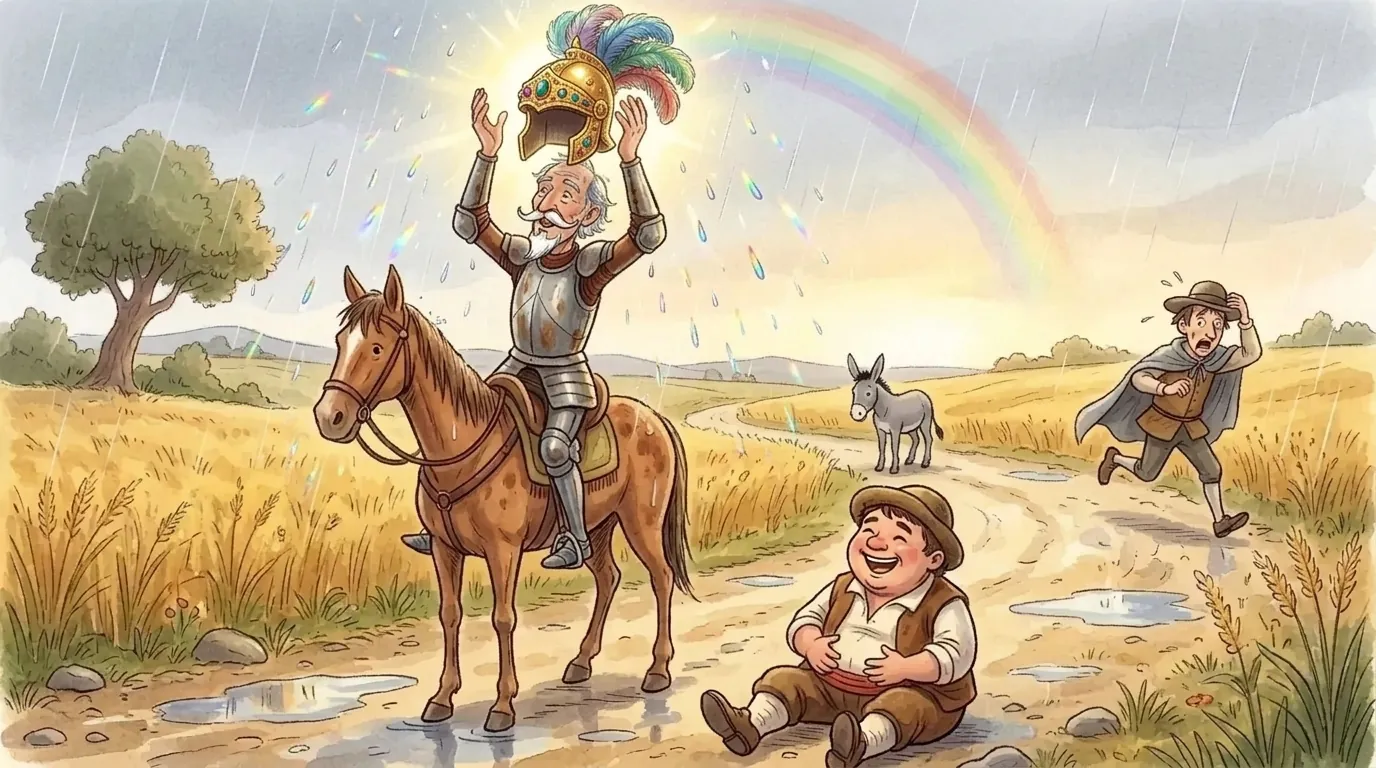
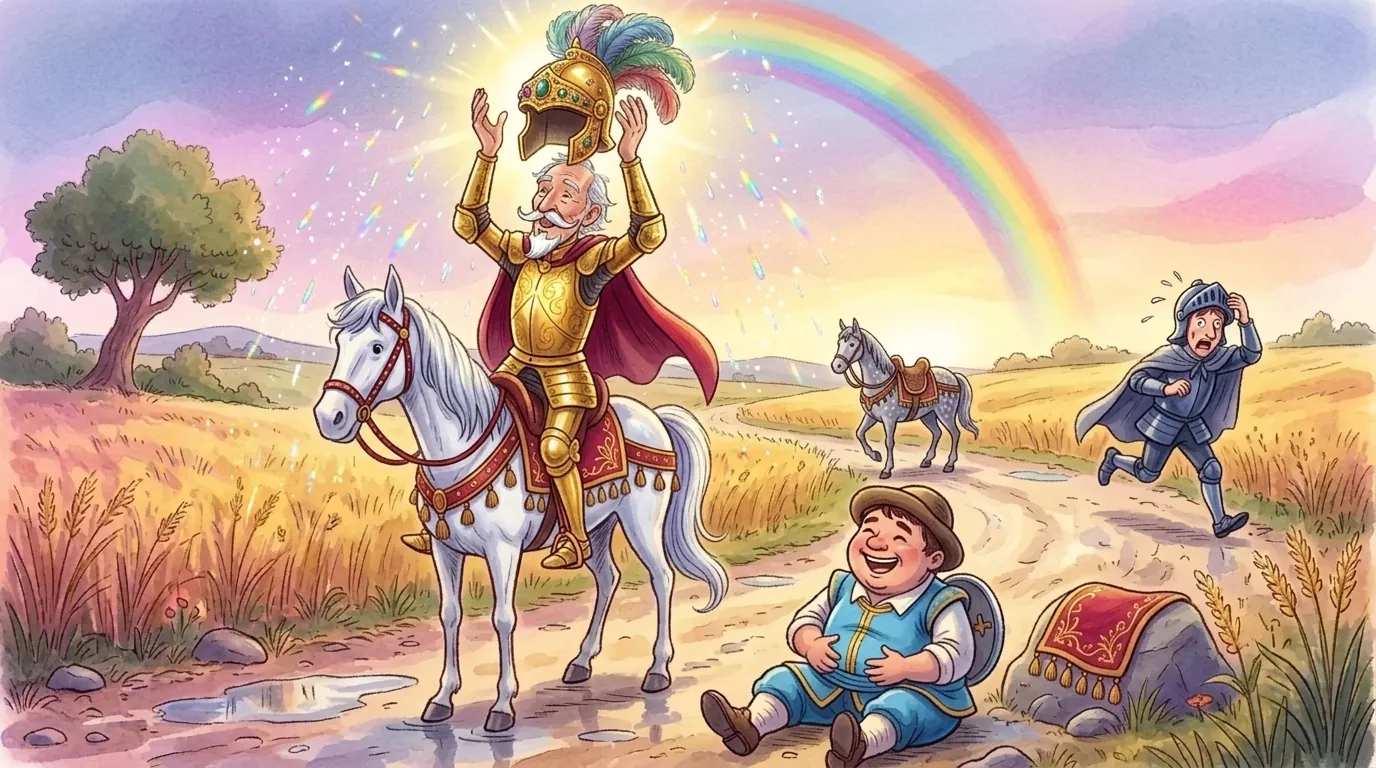
art(dom-quixote): Imaginações da Parte 2 refeitas para transformar de verdade
O humano reprovou as Imaginações da Parte 2: mantinham a Realidade (armadura
enferrujada, bacia, Rocinante marrom) e trocavam só um detalhe. As 9 (p0–p8)
foram refeitas pela API com uma "bíblia da Imaginação" no prompt: Dom Quixote
vira o cavaleiro dourado, Rocinante o corcel branco, Sancho o escudeiro, e cada
cena ganha as transformações do texto de Cervantes. Referências: a -real da
página, a p7-imag da Parte 1, fichas do banco e a Imaginação anterior.

- tools/gerar-imagens.mjs: pedidos com `imaginacao: true` recebem a bíblia;
- docs/ARTE-PELA-API.md §4.1: a lição e o método;
- teto da API agora R$ 30/mês; gasto desta rodada US$ 0,42 (Parte 2: US$ 0,99).

Claude-Session: https://claude.ai/code/session_01DbhyZ1tVmtqwcfT63TCuaq

diff --git a/sw.js b/sw.js
@@ -6,7 +6,7 @@
    - Narração gravada (*.mp3 e as marcas *.json em audio/): rede primeiro, para frases regravadas chegarem ao tablet;
      cada arquivo fica num cache próprio (que sobrevive às novas versões) e toca offline depois.
    - Demais arquivos: cache primeiro (abre instantâneo no tablet). */
-const CACHE = 'classicos-vivos-f6e1e854b7a1';
+const CACHE = 'classicos-vivos-c0a98d5c32f1';
 const CACHE_AUDIO = 'cv-narracao';
 const FILES = [
     "./assets/css/fonts.css",

diff --git a/docs/ARTE-PELA-API.md b/docs/ARTE-PELA-API.md
@@ -1,6 +1,6 @@
 # 🖼 Arte pela API do Gemini (Nano Banana 2, modo Batch)
 
-Caminho de reserva para as ilustrações quando a cota do Antigravity acaba. **Só com autorização do humano no prompt inicial da sessão** (AGENTS.md §2.7) e só para o que ele autorizou. Primeiro uso: 2026-10-24, Parte 2, páginas 4 a 8 (10 cenas + 5 camadas), **US$ 0,57** no total.
+Caminho de reserva para as ilustrações quando a cota do Antigravity acaba. **Só com autorização do humano no prompt inicial da sessão** (AGENTS.md §2.7) e só para o que ele autorizou. Primeiro uso: 2026-10-24, Parte 2, páginas 4 a 8 (10 cenas + 5 camadas), **US$ 0,57**. Na mesma tarde, a pedido do humano, as **9 Imaginações da Parte 2 foram refeitas** com a bíblia da Imaginação (§4.1): **US$ 0,42**. Total da Parte 2: **US$ 0,99**.
 
 ## 1. Modelo e preço (página de preços do Gemini, 2026-10-24)
 | Modelo | ID | Imagem 1K Standard | **Batch** | 512 px Batch |
@@ -33,6 +33,20 @@ npm run build:images && npm run build
 5. Posicionar as camadas no `parte-N.html` **pela arte**, e não pelo plano: o modelo segue a composição pedida só aproximadamente (a poeira, o balão e as cabras mudaram de lugar em relação ao TODO).
 
 ## 4. Lições aprendidas
+
+### 4.1 A Lente da Imaginação precisa TRANSFORMAR (a lição mais importante)
+- ❌ **Errado** (primeira rodada): "Edit the reference image keeping everything exactly, only change X". O modelo obedece demais: Dom Quixote continua de armadura enferrujada e bacia de latão, Rocinante continua marrom, e só um detalhe muda. O humano reprovou: "mantiveram os elementos da realidade, sem verdadeiramente transformar a cena e os personagens".
+- ✅ **Certo**: a lista tem uma **bíblia da Imaginação** (`imaginacao` em `tools/arte/<livro>-parte-N.mjs`), que entra em todo pedido com `imaginacao: true`:
+  1. "Da Realidade, mantenha **só** a câmera, o layout e o lugar, o tamanho e a pose de cada personagem. **Transforme todo o resto.**"
+  2. As transformações obrigatórias dos personagens fixos: Dom Quixote → **cavaleiro dourado** (armadura de ouro com filigrana, elmo de viseira aberta e pluma vermelha, capa carmim, lança de ouro com flâmula, o mesmo rosto); Rocinante → **corcel branco** (crina prateada, manta carmim e ouro); Sancho → **escudeiro orgulhoso**, reconhecível (túnica azul-celeste com ouro, escudinho nas costas), e o burrico com manta de festa.
+  3. O que **não pode sobrar** ("NO rusty armour, NO brass basin, NO skinny brown horse").
+  4. O mundo vira conto de fadas (ouro, violeta, rosa, turquesa, brilhos), e cada página diz **as suas** transformações, tiradas do texto de Cervantes (o barbeiro → cavaleiro em fuga, e o burrinho dele → corcel malhado; as cordas de Rocinante → fitas encantadas; os cabreiros → pastores da Idade de Ouro).
+- **Referências da Imaginação**, nesta ordem: (1) a `-real` da página (layout); (2) uma Imaginação aprovada com o cavaleiro dourado e Sancho (`imagens/p7-imag.webp`, da Parte 1); (3) uma ficha do banco (`biblioteca/referencias/personagens/don-quixote-cavaleiro-dourado.png`, `dom-quixote-heroi-dourado.png`, `rocinante-corcel-branco.png`); (4) a Imaginação anterior da página, quando tinha elementos bons (gigante, mago, sábio, exércitos), citada no prompt como "like the last reference image". Não use `gigantes-moinhos.png` (estilo cartoon vetado, AGENTS §4.4).
+- **Escala e lugar**: o corcel branco com manta tende a sair **maior** e a ir para o centro. Quando o lugar importa (troca de lente sem "pulo"), diga o tamanho em relação à Realidade ("no taller than half the picture height, exactly the size of the brown horse in the reality version, standing still") e troque a ficha do cavaleiro grande por uma cena com cavaleiros pequenos.
+- **Objetos nas mãos**: "gripping its rim firmly with BOTH hands (his hands touch the helmet; it does not float)". Sem isso, o objeto mágico flutua.
+- **Animais a mais**: o modelo acrescenta o burrico de Sancho em toda cena. Quando ele não está na página, diga "it is the ONLY animal on the road".
+
+### 4.2 Camadas e demais lições
 - **Camadas sobre magenta puro (#FF00FF), nunca sobre branco.** O modelo não entrega transparência. Recortar fundo branco come as partes claras (o avental da pousada) e deixa "chão" claro (P-003/P-005). O magenta saiu uniforme e o `recortar-camada.py` tira o fundo, desmistura as bordas (sem halo rosa) e corta justo.
 - **Poeira, fumaça e fiapos**: o modelo pinta fiapos rosados misturados ao magenta. Para desenhos sem rosa nenhum (poeira, madeira), use `--sem-rosa`.
 - **Diga o que NÃO pintar quando há camada por cima**: "Do NOT paint the hammers… the space stays clear" funcionou (galpão vazio + camada de martelos). Áreas livres pedidas em % ("the upper right part… must be EMPTY") também.
@@ -42,7 +56,7 @@ npm run build:images && npm run build
 - **Sem texto legível**: "only golden swirls, absolutely no letters or words" funcionou no livro do sábio.
 
 ## 5. Estimativa para as próximas partes
-Custo médio real: **~US$ 0,038 por imagem aceita** (já com as refeitas).
+Custo médio real: **~US$ 0,038 por imagem aceita** (já com as refeitas). Com a bíblia da Imaginação desde o início, a Imaginação sai certa na primeira ou na segunda tentativa.
 | Parte | Cenas | Camadas | Estimativa |
 | :--- | :--- | :--- | :--- |
 | 3 | 17 | 5 | ~US$ 0,85 |

diff --git a/AGENTS.md b/AGENTS.md
@@ -152,17 +152,17 @@ window.LIVRO = {
 - **Reserva em cascata, nunca silêncio**: frase sem gravação → voz do aparelho; voz "online" sem internet → melhor voz offline do aparelho (até recarregar a página). Na primeira visita, se houver narração gravada pronta para a parte, ela vira a voz padrão.
 - **Offline**: o service worker **não** pré-baixa os áudios (são grandes). Os MP3 seguem **rede primeiro** (uma frase regravada com o mesmo nome chega ao tablet) e ficam num cache próprio (`cv-narracao`, que sobrevive às novas versões), para tocar offline depois da primeira vez. O SW pede o arquivo inteiro (200) em vez do trecho (Range/206) que o `<audio>` pede, senão nada seria guardado. O `vozes.js` também é buscado na rede primeiro.
 - **Página inteira** (o padrão): `<voz>/parte-N/paginas.json` lista as páginas gravadas num áudio só (`pN.mp3`) e o tempo de cada frase (`ini`/`fim`). "Ouvir Página" toca esse MP3 e destaca a frase pelo `currentTime` (`lerPaginaInteira`). As páginas fora dele seguem frase a frase. O áudio que vem do service worker **não aceita salto no tempo** (`seekable` vazio); para tocar uma frase solta de uma página inteira, ver BACKLOG M-4.
-- **Vozes dos personagens**: o roteiro (`narracao/parte-N/roteiro.json`) diz quem fala cada trecho, e o elenco fica em `ELENCO` (`tools/gravar-narracao.mjs`). **Economia** (limite de R$ 10/mês do humano): a API paga só produz vozes; a conferência é local (`tools/transcrever.py`, Whisper).
+- **Vozes dos personagens**: o roteiro (`narracao/parte-N/roteiro.json`) diz quem fala cada trecho, e o elenco fica em `ELENCO` (`tools/gravar-narracao.mjs`). **Economia** (limite de R$ 30/mês do humano): a API paga só produz vozes; a conferência é local (`tools/transcrever.py`, Whisper).
 - **Prévia**: uma voz com a parte em `previa` (no `vozes.js`) aparece no painel com só algumas frases gravadas (as demais usam a voz do aparelho) e nunca vira a voz padrão. Serve para o humano ouvir no livro antes de a produção seguir.
 - Produção das gravações: `docs/TODO-NARRACAO.md` e `npm run gravar:narracao` (Claude, via API do Gemini `gemini-3.8-flash-tts` com a chave como segredo de rede do ambiente, injetada pelo proxy; ela **nunca** é impressa nem versionada). **Regras de uso da API: §2.7.** Lista do que gravar: `docs/narracao/frases-<livro>-parte-N.json`.
 
 ### 2.7 Uso da API paga do Gemini (regra do humano, 2026-10-24)
-A API é paga pelo humano, num projeto de hobby com **limite de R$ 10/mês**, e a verba precisa render para **muitos livros e, quem sabe, novas vozes**. Por isso:
+A API é paga pelo humano, num projeto de hobby com **limite de R$ 30/mês** (era R$ 10 até 2026-10-24), e a verba precisa render para **muitos livros e, quem sabe, novas vozes**. Por isso:
 1. **Só para produzir as vozes da leitura** (narração e palavras-chave). **Nada mais**: nem testes de acesso, nem transcrição, nem avaliação de áudio, nem texto, nem imagens, nem listar ou criar vozes "para ver".
 2. **Só com autorização explícita do humano no prompt inicial da sessão.** Sem ela, a API não é chamada (nem para "um teste rápido"). O `tools/gravar-narracao.mjs` recusa sem `--autorizado`; passe a opção só quando o humano tiver autorizado aquela produção.
 3. **Sempre do jeito mais econômico**: planeje com `--seco` (de graça), grave a página inteira num pedido só, não regrave o que já está bom (o `hash` evita), no máximo 2 tentativas, a conferência é **local e gratuita** (Whisper, `tools/transcrever.py`), e prefira o nível mais barato aprovado pelo humano (opções e preços em `docs/TODO-NARRACAO.md` §8.4).
 4. **Registre o gasto**: cada rodada vai para `docs/narracao/gastos.csv` (o script faz isso). Ao fim do trabalho, diga ao humano quanto foi gasto.
-5. **As imagens, por padrão, não usam a API paga** (decisão do humano, 2026-10-24): continuam com o agente Gemini no **Google Antigravity**, na cota do plano Pro do humano (com as pausas por cota). **Exceção pontual**: quando o humano autoriza no prompt inicial (ex.: 2026-10-24, as páginas 4–8 da Parte 2, com a cota do Antigravity esgotada), o Claude gera pela API com `npm run gerar:imagens` (Nano Banana 2, **Batch**, ~US$ 0,038 por imagem aceita), **só** o que foi autorizado. Método, preços e lições: `docs/ARTE-PELA-API.md`.
+5. **As imagens, por padrão, não usam a API paga** (decisão do humano, 2026-10-24): continuam com o agente Gemini no **Google Antigravity**, na cota do plano Pro do humano (com as pausas por cota). **Exceção pontual**: quando o humano autoriza no prompt inicial (ex.: 2026-10-24, as páginas 4–8 da Parte 2, com a cota do Antigravity esgotada), o Claude gera pela API com `npm run gerar:imagens` (Nano Banana 2, **Batch**, ~US$ 0,038 por imagem aceita), **só** o que foi autorizado. Método, preços e lições: `docs/ARTE-PELA-API.md` (§4.1: a **Lente da Imaginação transforma** personagens e cena, nunca só um detalhe).
 
 ### 2.8 Idiomas (bandeirinhas no topo do livro)
 - O **português é o original** (`window.LIVRO` em `parte-N.html`). Cada tradução fica em `<livro>/traducoes/parte-N.<idioma>.js` (`en`, `fr`, `es`) e é carregada por `<script>` só quando o idioma é escolhido (funciona em `file://` e offline: o SW pré-baixa as traduções).

diff --git a/docs/RETOMADA.md b/docs/RETOMADA.md
@@ -2,14 +2,15 @@
 
 Leia este arquivo primeiro numa sessão nova do Claude. Depois, `AGENTS.md` (arquitetura e regras) e o arquivo da frente de trabalho.
 
-> 💰 **API paga do Gemini (AGENTS.md §2.7)**: use **só para produzir as vozes da leitura**, **sempre de forma econômica** e **só se o humano autorizou no prompt inicial desta sessão**. Sem essa autorização, não chame a API para nada (nem teste). Limite: R$ 10/mês. Opções mais baratas em `TODO-NARRACAO.md` §8.4 (o Flex corta o preço pela metade, mas falta a aprovação do humano). **Imagens** pela API: só com autorização pontual do humano (`docs/ARTE-PELA-API.md`).
+> 💰 **API paga do Gemini (AGENTS.md §2.7)**: use **só para produzir as vozes da leitura**, **sempre de forma econômica** e **só se o humano autorizou no prompt inicial desta sessão**. Sem essa autorização, não chame a API para nada (nem teste). Limite: R$ 30/mês (desde 2026-10-24). Opções mais baratas em `TODO-NARRACAO.md` §8.4 (o Flex corta o preço pela metade, mas falta a aprovação do humano). **Imagens** pela API: só com autorização pontual do humano (`docs/ARTE-PELA-API.md`).
 
 ---
 
 ## 0. Atualização de 2026-10-24, tarde: arte da Parte 2 pela API
 - Com a cota do Antigravity esgotada até 29/10, o humano autorizou o Claude a gerar **só as imagens que faltavam da Parte 2**. Feito com `npm run gerar:imagens` (Nano Banana 2, Batch): páginas 4 a 8 (10 cenas + 5 camadas), integradas e testadas. **Gasto: US$ 0,57** (`docs/arte/gastos.csv`). **A Parte 2 está completa.**
-- Gasto da API no mês até aqui: narração ~US$ 0,65 + imagens US$ 0,57 ≈ **US$ 1,22**.
-- Próximo passo, **se o humano autorizar**: Partes 3 (~US$ 0,85) e 4 (~US$ 0,80), com o mesmo método: escrever `tools/arte/dom-quixote-parte-N.mjs` a partir do TODO, rodar `--seco`, e seguir as rodadas de `docs/ARTE-PELA-API.md` §3. Sem autorização, o Gemini retoma a Parte 3 no Antigravity em 29/10.
+- **Imaginações da Parte 2 refeitas** (as 9, pedido do humano): agora transformam de verdade (cavaleiro dourado, corcel branco, Sancho escudeiro). Mais US$ 0,42. Regra para as próximas partes: `ARTE-PELA-API.md` §4.1.
+- **Teto da API: R$ 30/mês** (o humano aumentou em 2026-10-24). Gasto no mês até aqui: narração ~US$ 0,65 + imagens US$ 0,99 ≈ **US$ 1,64**.
+- Próximo passo, **se o humano autorizar**: Partes 3 (~US$ 0,85) e 4 (~US$ 0,80), já com a bíblia da Imaginação, com o mesmo método: escrever `tools/arte/dom-quixote-parte-N.mjs` a partir do TODO, rodar `--seco`, e seguir as rodadas de `docs/ARTE-PELA-API.md` §3. Sem autorização, o Gemini retoma a Parte 3 no Antigravity em 29/10.
 
 ## 1. Frente atual do Claude: narração gravada (P-006)
 
@@ -19,7 +20,7 @@ O responsável humano passou a narração para o **Claude**, chamando a **API do
 - **Estado em 2026-10-24, manhã** (decisões do humano no topo de `TODO-NARRACAO.md`, leia antes de gravar):
   - **as quatro partes de Dom Quixote estão gravadas** (`partes: [1, 2, 3, 4]`): páginas inteiras com títulos, narradora + vozes dos personagens (elenco em `ELENCO`) e todas as palavras-chave. QA em `docs/narracao/qa-parte-N.md`, com o que vale ouvir;
   - textos das Partes 2–4 revisados pelo agente de texto do humano e pelo Claude (falas diretas, português brasileiro); roteiros em `narracao/parte-N/roteiro.json`;
-  - Flex é o padrão; limite de **100 pedidos/dia** (Tier 1) e de **R$ 10/mês**; o gasto fica em `docs/narracao/gastos.csv`;
+  - Flex é o padrão; limite de **100 pedidos/dia** (Tier 1) e de **R$ 30/mês**; o gasto fica em `docs/narracao/gastos.csv`;
   - a conferência é local (Whisper): num contêiner novo, `pip install faster-whisper`.
 
 **Próximos passos:**

diff --git a/docs/BACKLOG.md b/docs/BACKLOG.md
@@ -59,6 +59,7 @@ Levantado na inspeção completa do sprint 1 (2026-10): código, ilustrações e
 
 - **Parte 2 com toda a arte**: páginas 4 a 8 (`-real`, `-imag` e as camadas da poeira, do balão, da cabra e dos martelos) geradas pelo Claude com o Nano Banana 2 pela API, em modo Batch, por autorização pontual do humano. US$ 0,57. Ferramentas novas: `npm run gerar:imagens` e `tools/recortar-camada.py` (fundo magenta → alfa, sem halo). Método: `docs/ARTE-PELA-API.md`.
 - **Animação `martelar`** (camada que gira em torno do eixo do alto): os martelos do amanhecer batem no pano.
+- **As 9 Imaginações da Parte 2 refeitas** (pedido do humano): transformam de verdade a cena e os personagens (cavaleiro dourado, corcel branco, Sancho escudeiro), com a bíblia da Imaginação (`ARTE-PELA-API.md` §4.1). US$ 0,42. Total da Parte 2 pela API: US$ 0,99.
 
 ## ✅ Entregue no sprint 8 (Partes 2–4 narradas, madrugada de 2026-10-24)
 
@@ -100,7 +101,7 @@ Levantado na inspeção completa do sprint 1 (2026-10): código, ilustrações e
 | M-6 | **Continuar de onde parou** | Lembrar a última página lida (`localStorage`, com `try/catch`) e oferecer "Continuar" na capa e na biblioteca. |
 | M-7 | **Consistência das ilustrações** | NB-4 (escala do herói dourado e rosto na etapa 1), NB-5 (enquadramento do estábulo), NB-6 (imaginação de Sancho gerada de verdade, em vez da capa com recorte achatado). Substituições diretas, sem código. |
 | M-8 | **Teste automatizado multiplataforma** | O protocolo do AGENTS.md §5 é só Windows/Chrome. Criar `npm test` com Playwright (retrato + paisagem, páginas 0–7, ambas as lentes, ordem da armadura, bloqueio de duplo toque, offline) gerando capturas em `test-results/`. |
-| M-11 | **Retoques da arte da Parte 2 (API)** | Sem retrabalho urgente. (1) A poeira da pág. 4 ainda tem fiapos levemente rosados nas pontas (quase invisíveis sobre a planície). (2) Na pág. 5, Dom Quixote parece mais alegre que "abatido". (3) Na pág. 8 da Imaginação, o elmo flutua logo acima das mãos. Só refazer se o humano pedir. |
+| M-13 | **Retoques da arte da Parte 2 (API)** | Sem retrabalho urgente. (1) A poeira da pág. 4 ainda tem fiapos levemente rosados nas pontas (quase invisíveis sobre a planície). (2) Na pág. 5 (Realidade), Dom Quixote parece mais alegre que "abatido". (3) Na pág. 6 da Imaginação, o cavaleiro está em pé (na Realidade, sentado na pedra), coerente com "empunhou a lança". O elmo flutuante da pág. 8 e as Imaginações que não transformavam já foram corrigidos. |
 | M-9 | **Aviso de atualização do PWA** | Com o service worker, uma versão nova só aparece na visita seguinte. Mostrar "Livro atualizado ✨" ao ativar uma versão nova. |
 
 ## 🟢 Prioridade baixa

diff --git a/docs/TODO-NARRACAO.md b/docs/TODO-NARRACAO.md
@@ -15,7 +15,7 @@ O livro já sabe tocar narração gravada **frase por frase**, com o destaque da
 6. **Página inteira num pedido só é o padrão** (`--pagina-inteira`, §8.5): aprovada de ouvido ("ficou muito melhor"). Frase por frase, só em gravações avulsas.
 7. **O Claude escolhe o elenco** pelas descrições do catálogo e, se nenhuma voz servir, **cria uma por descrição** (voice design). Escolhidos na Parte 1: **Dom Quixote** `pt-br-concierge-3` (62 anos, grave, "ressonante e espirituosa") e **Sancho** `pt-br-storyteller-2` (49, grave, humorista, "envolvente e empática"). O elenco fica em `ELENCO`, no script; o roteiro de quem fala cada trecho, em `narracao/parte-N/roteiro.json` (escrito à mão a partir do texto: falas continuam em frases sem travessão).
 8. **O título é lido**: capítulo + título no começo de cada página, a "frase 0" (`pN-s0`). Na capa: obra + título da parte.
-9. **Economia (limite de R$ 10/mês no projeto)**: a API paga só faz **o que só ela faz, produzir as vozes**. A conferência é **local** (Whisper no ambiente, `tools/transcrever.py`), no máximo 2 tentativas, 1 palavra diferente não regrava (fica o aviso) e a comparação tolera nomes mal ouvidos, palavras juntas/separadas e números em algarismos. Cada rodada registra o gasto estimado em `docs/narracao/gastos.csv`. A Parte 1 inteira custou ~US$ 0,15 nesta fase (fora os testes).
+9. **Economia (limite de R$ 30/mês no projeto; era R$ 10 até 2026-10-24)**: a API paga só faz **o que só ela faz, produzir as vozes**. A conferência é **local** (Whisper no ambiente, `tools/transcrever.py`), no máximo 2 tentativas, 1 palavra diferente não regrava (fica o aviso) e a comparação tolera nomes mal ouvidos, palavras juntas/separadas e números em algarismos. Cada rodada registra o gasto estimado em `docs/narracao/gastos.csv`. A Parte 1 inteira custou ~US$ 0,15 nesta fase (fora os testes).
 10. **Clonar a voz do humano**: adiado ("preciso refletir mais").
 11. **Regra da API paga (AGENTS.md §2.7)**: usar **sempre de forma econômica**, para sobrar verba para muitos livros e novas vozes; **só para produzir as vozes da leitura**, nada mais (nem teste, transcrição, avaliação, listagem ou criação de voz "para ver"); e **só com autorização do humano no prompt inicial da sessão**. O script exige `--autorizado`.
 12. **Flex é o padrão** (aprovado pelo humano em 2026-10-24): metade do preço, mesma voz. Na prática, cada pedido levou de 1 a 3 minutos. Se o Flex falhar de vez, o script manda aquele pedido no Standard e avisa (`--standard` desliga o Flex).

diff --git a/docs/fila/PEDIDOS.md b/docs/fila/PEDIDOS.md
@@ -44,6 +44,10 @@ ESTADO: ATIVO
 
 ## Revisões do Claude
 
+### 2026-10-24 13:20 UTC — Imaginações da Parte 2 refeitas (Claude, pela API)
+- O humano reprovou as Imaginações da Parte 2: **mantinham a Realidade** (Dom Quixote de armadura enferrujada e bacia, Rocinante marrom) e trocavam só um detalhe. Isso valia para as minhas (p4 a p8) e para as do Antigravity (p0 a p3). As 9 foram refeitas pela API (US$ 0,42), com a **bíblia da Imaginação**: Dom Quixote → cavaleiro dourado; Rocinante → corcel branco; Sancho → escudeiro; o mundo → conto de fadas, com as transformações de cada cena.
+- **Gemini (arte): ao voltar (29/10), aplique a mesma regra às Imaginações das Partes 3 e 4.** O texto da bíblia (em inglês, pronto para colar no prompt) está em `tools/arte/dom-quixote-parte-2.mjs` (campo `imaginacao`), e as lições em `docs/ARTE-PELA-API.md` §4.1. Mande como referência a `-real` da página, a `imagens/p7-imag.webp` (Parte 1) e as fichas `biblioteca/referencias/personagens/don-quixote-cavaleiro-dourado.png` e `rocinante-corcel-branco.png`. Personagens novos também se transformam (ex.: Doroteia → princesa Micomicona; o padre e o barbeiro disfarçados → o que Dom Quixote vê neles).
+
 ### 2026-10-24 12:50 UTC — Parte 2 concluída pelo Claude, pela API (P2-4 a P2-8)
 - Com a cota semanal do Antigravity esgotada até 29/10, o **humano autorizou o Claude a gerar pela API** (Nano Banana 2, `gemini-3.1-flash-image`, modo Batch) **só as imagens que faltavam da Parte 2**. Feito: `p4`–`p8`, `-real` e `-imag`, e as camadas `p4-poeira-esquerda`, `p4-poeira-direita`, `p6-balao-historia`, `p6-cabra`, `p7-martelos`, já integradas e posicionadas no `parte-2.html`. Gasto: **US$ 0,57** (`docs/arte/gastos.csv`). Método e lições: `docs/ARTE-PELA-API.md`.
 - **Exceção de dono**: por autorização do humano, o Claude escreveu em `dom-quixote/imagens/parte-2/**` e na seção da Parte 2 do `CATALOGO.md` (que estava com a numeração antiga). Nenhum outro arquivo do Gemini foi tocado.

diff --git a/dom-quixote/biblioteca/CATALOGO.md b/dom-quixote/biblioteca/CATALOGO.md
@@ -31,17 +31,17 @@ Convenção: `pN` = índice da página (`?page=N`), sufixo `-real` (Lente da Rea
 
 | Página | Arquivos | Observação |
 | :--- | :--- | :--- |
-| 0 · Capa | `p0-real`, `p0-imag` | Capa completa (Gemini, Antigravity) |
-| 1 · O Tombo nos Moinhos | `p1-real`, `p1-imag` | Gemini, Antigravity |
-| 2 · A Lança de Carvalho | `p2-real`, `p2-imag` | Gemini, Antigravity |
-| 3 · Os Pastores | `p3-real`, `p3-imag` | Camadas `p3-bolotas`, `p3-queijo`, `p3-leite` (Gemini, Antigravity) |
+| 0 · Capa | `p0-real`, `p0-imag` | Realidade: Gemini (Antigravity); Imaginação refeita pelo Claude (API) |
+| 1 · O Tombo nos Moinhos | `p1-real`, `p1-imag` | idem |
+| 2 · A Lança de Carvalho | `p2-real`, `p2-imag` | idem |
+| 3 · Os Pastores | `p3-real`, `p3-imag` | idem. Camadas `p3-bolotas`, `p3-queijo`, `p3-leite` (Gemini) |
 | 4 · Os Exércitos de Poeira | `p4-real`, `p4-imag` | Camadas `p4-poeira-esquerda`, `p4-poeira-direita` (somem com SOPRO). Claude pela API, 2026-10-24 |
 | 5 · O Cavaleiro da Triste Figura | `p5-real`, `p5-imag` | Claude pela API, 2026-10-24 |
 | 6 · As Cabras do Rio | `p6-real`, `p6-imag` | Camadas `p6-balao-historia` e `p6-cabra` (usada 5 vezes). Claude pela API, 2026-10-24 |
 | 7 · O Segredo do Amanhecer | `p7-real` (galpão sem os martelos), `p7-imag` | Camada `p7-martelos` (anim `martelar`). Claude pela API, 2026-10-24 |
 | 8 · O Elmo de Mambrino | `p8-real`, `p8-imag` | Claude pela API, 2026-10-24 |
 
-Prompts das páginas 4 a 8: `tools/arte/dom-quixote-parte-2.mjs` (método em `docs/ARTE-PELA-API.md`).
+**Todas as Imaginações da Parte 2 foram refeitas em 2026-10-24** com a bíblia da Imaginação (Dom Quixote cavaleiro dourado, Rocinante corcel branco, Sancho escudeiro). Prompts das páginas 4 a 8 e de todas as Imaginações: `tools/arte/dom-quixote-parte-2.mjs` (método em `docs/ARTE-PELA-API.md`).
 
 ---
 
